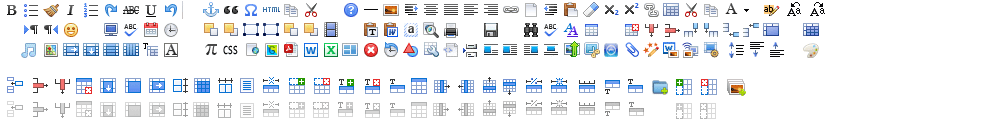
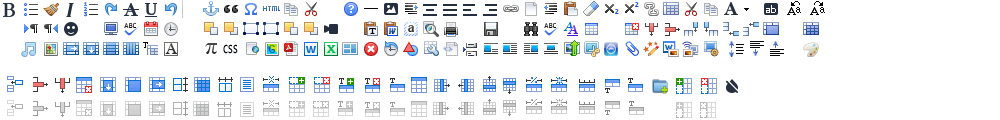
调整

diff --git a/public/js/_common/loading.js b/public/js/_common/loading.js
@@ -1,4 +1,4 @@
-//loading 以commonjs/loading为准
+//loading
 class Loading extends React.Component {
   constructor(props) {
     super(props)
@@ -7,10 +7,16 @@ class Loading extends React.Component {
   render() {
     return (
       <div className={!this.state.show ? 'disN' : ('loading-wrap ' + this.state.type)}>
-        <div className={'loading-body ' + this.state.size}>
-          <div className='loading-circle'></div>
-          <div className='loading-logo'></div>
-        </div>
+        {
+          this.state.type == 'absolute' ?
+            <div className='icon-loading color-primary'></div> : 
+          (
+            <div className={'loading-body ' + this.state.size}>
+              <div className='loading-circle'></div>
+              <div className='loading-logo'></div>
+            </div>
+          )
+        }
         {this.state.title != '' ? <p className='loading-txt'>{this.state.title}</p> : ''}
       </div>
     )
@@ -40,7 +46,7 @@ const Action = {
 function loading(params) {
   let dft = {
     title: '加载中......',    //title为空是不显示标题
-    type: 'tb',   //lr 左右结构 tb上下结构
+    type: 'tb',   //lr 左右结构 tb上下结构  局部absolute
     size: 'normal',   //normal普通大小 small是小loading
     show: false
   }

diff --git a/public/js/ui/load/index.js b/public/js/ui/load/index.js
@@ -43,10 +43,10 @@ function pages() {
       $(dom).find('.click-load-3').click(function(e) {
         e.stopPropagation()
         loadx.$reset()        //如果页面有多个加载，可通过reset重置
-        loadx.$update({title: '', size: 'small', show: true})
+        loadx.$update({title: '', size: 'small', show: true, type: 'absolute'})
         setTimeout(() => {
           loadx.$hide()
-        }, 2000);
+        }, 10000000);
       })
     }
   )

diff --git a/public/3ds/js/ueditor/themes/default/css/ueditor.css b/public/3ds/js/ueditor/themes/default/css/ueditor.css
@@ -957,7 +957,7 @@ div.edui-box {
 }
 
 .edui-default .edui-toolbar .edui-splitborder {
-    width: 1px;
+    /* width: 1px; */
     height: 20px;
 }
 
@@ -1745,7 +1745,7 @@ div.edui-box {
 }
 /*分隔线*/
 .edui-default .edui-toolbar .edui-separator {
-    width: 2px;
+    /* width: 2px; */
     height: 20px;
     margin: 2px 4px 2px 3px;
     background: url(../images/icons.png) -181px 0;

diff --git a/component/modules/msgtips/index.js b/component/modules/msgtips/index.js
@@ -1,17 +1,10 @@
 import {objtypeof, inject} from 'libs'
 import PopClass from 'component/class/poper'
 
-<<<<<<< Updated upstream
 // Aotoo.inject.css([
 //   '/css/t/animate.css',
 //   '/css/m/msgtips.css'
 // ])
-=======
-Aotoo.inject.css([
-  '/css/t/animate.css',
-  // '/css/m/msgtips.css'
-])
->>>>>>> Stashed changes
 
 class Tips extends PopClass {
   constructor(){
